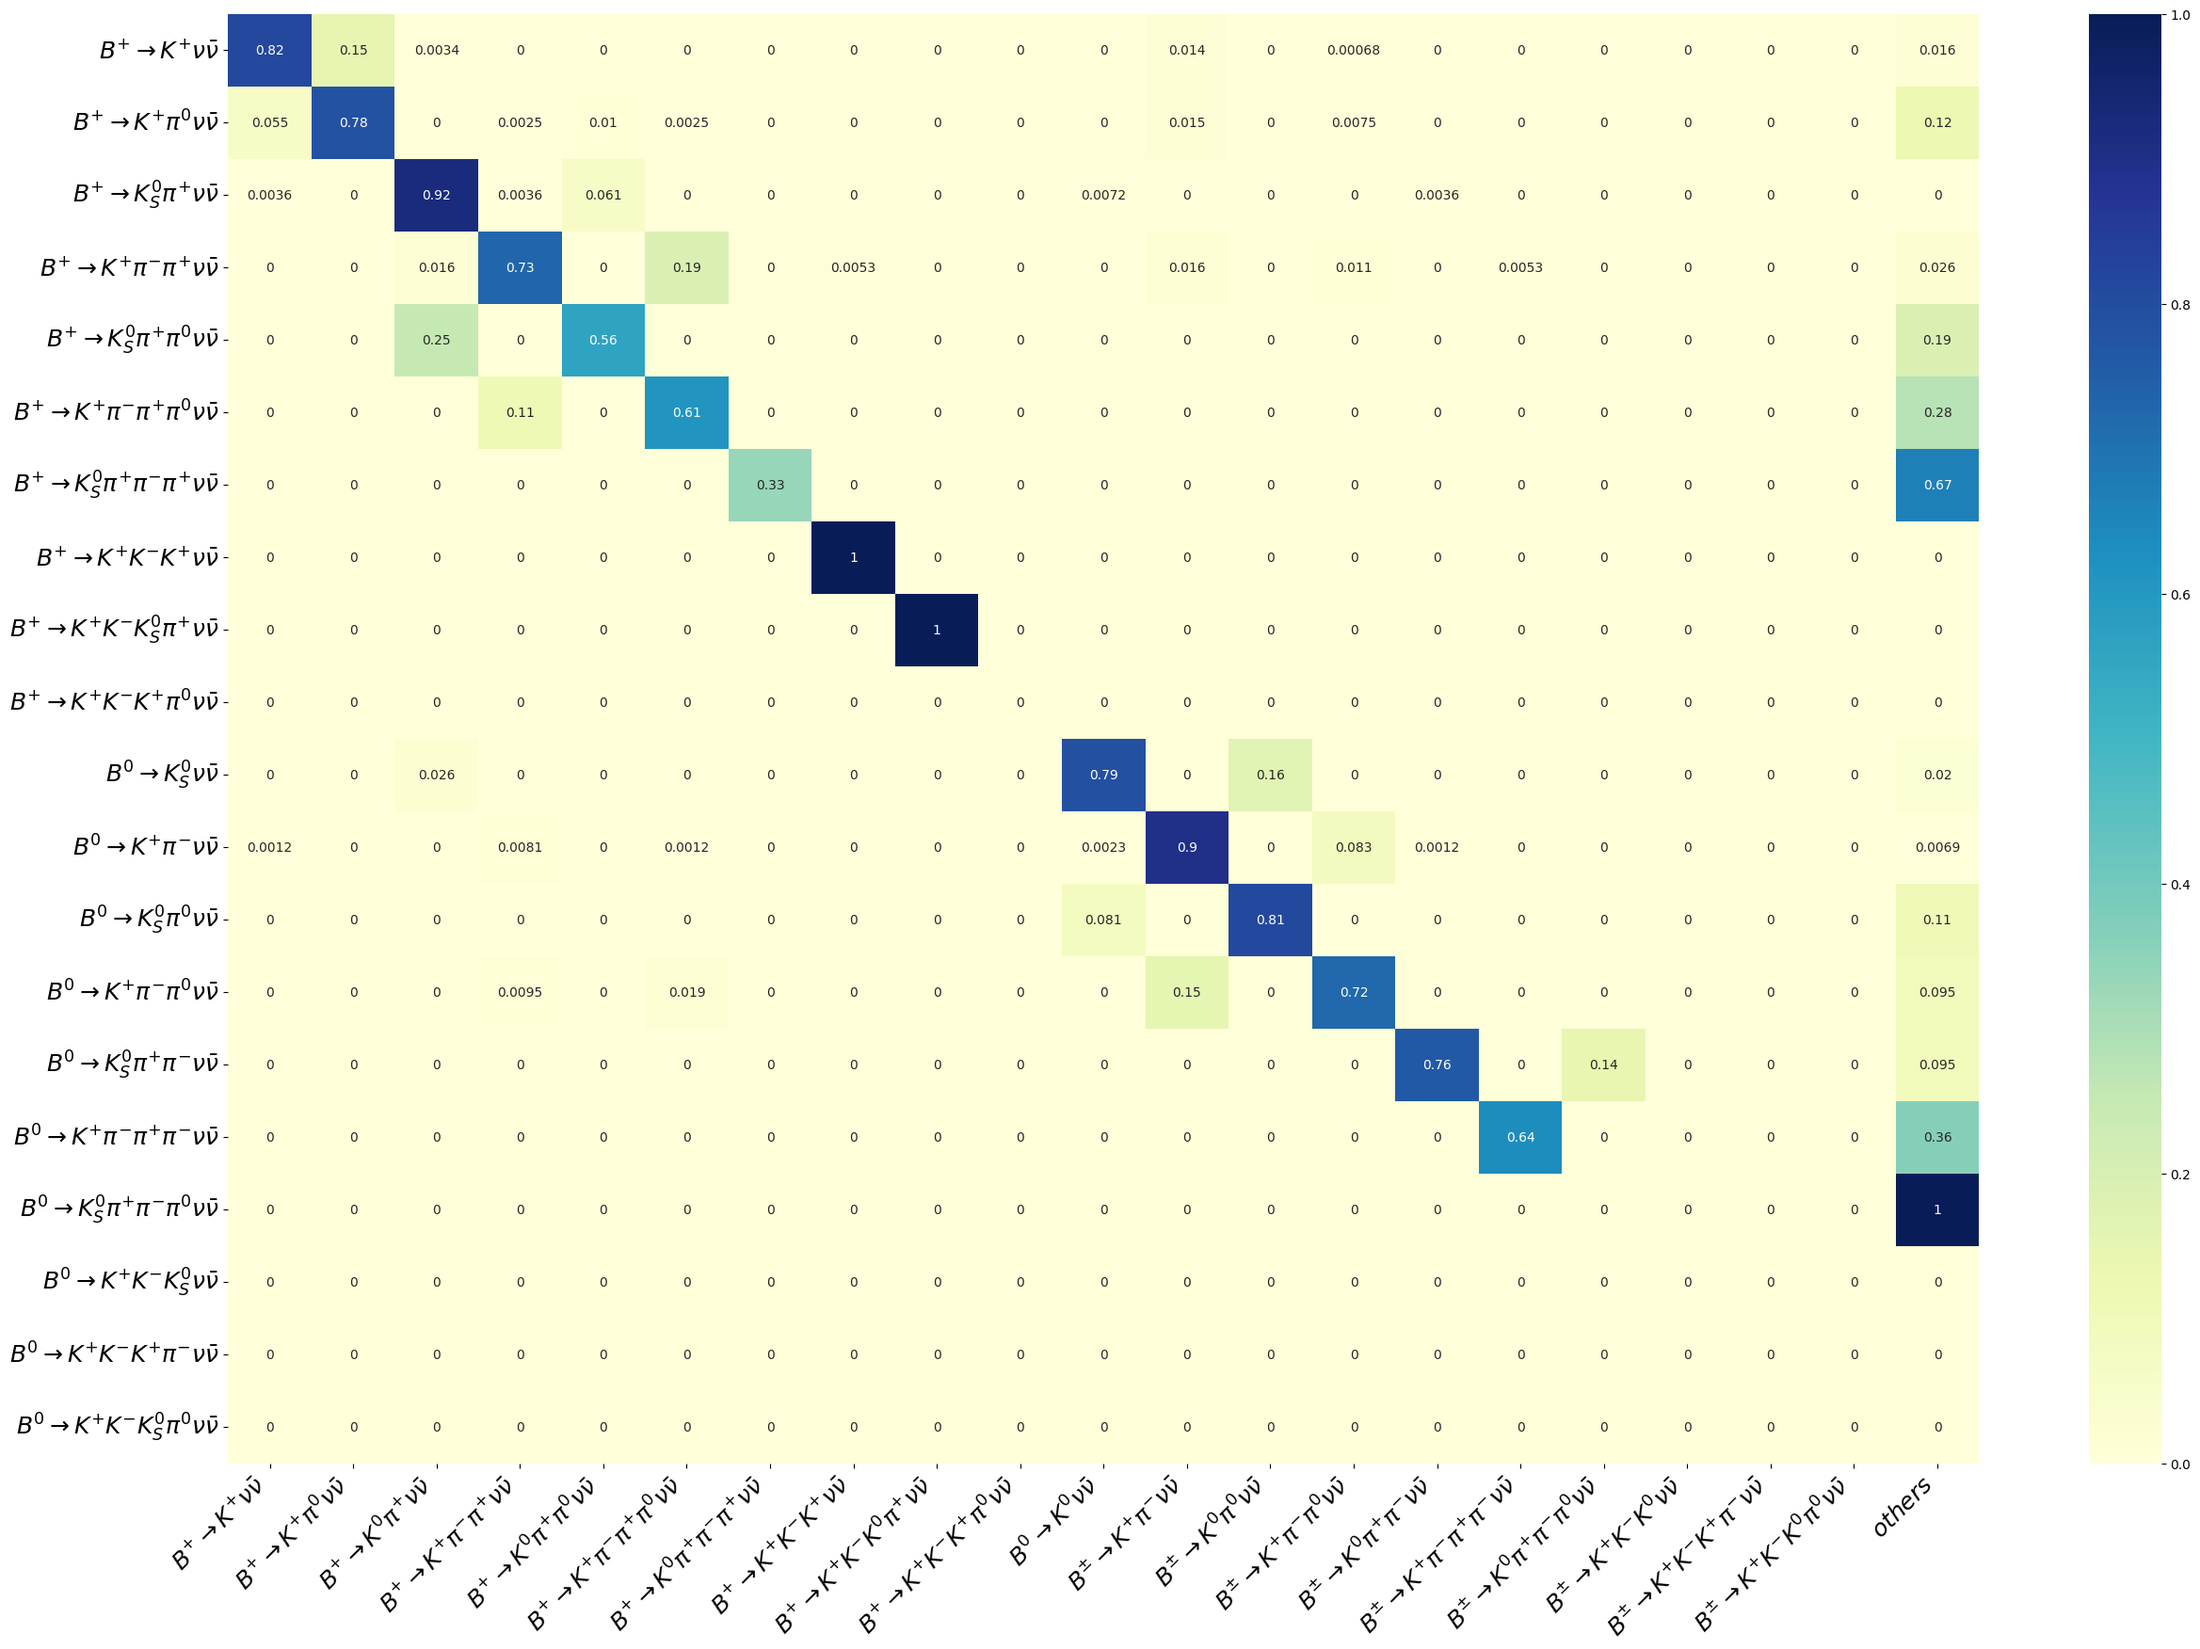
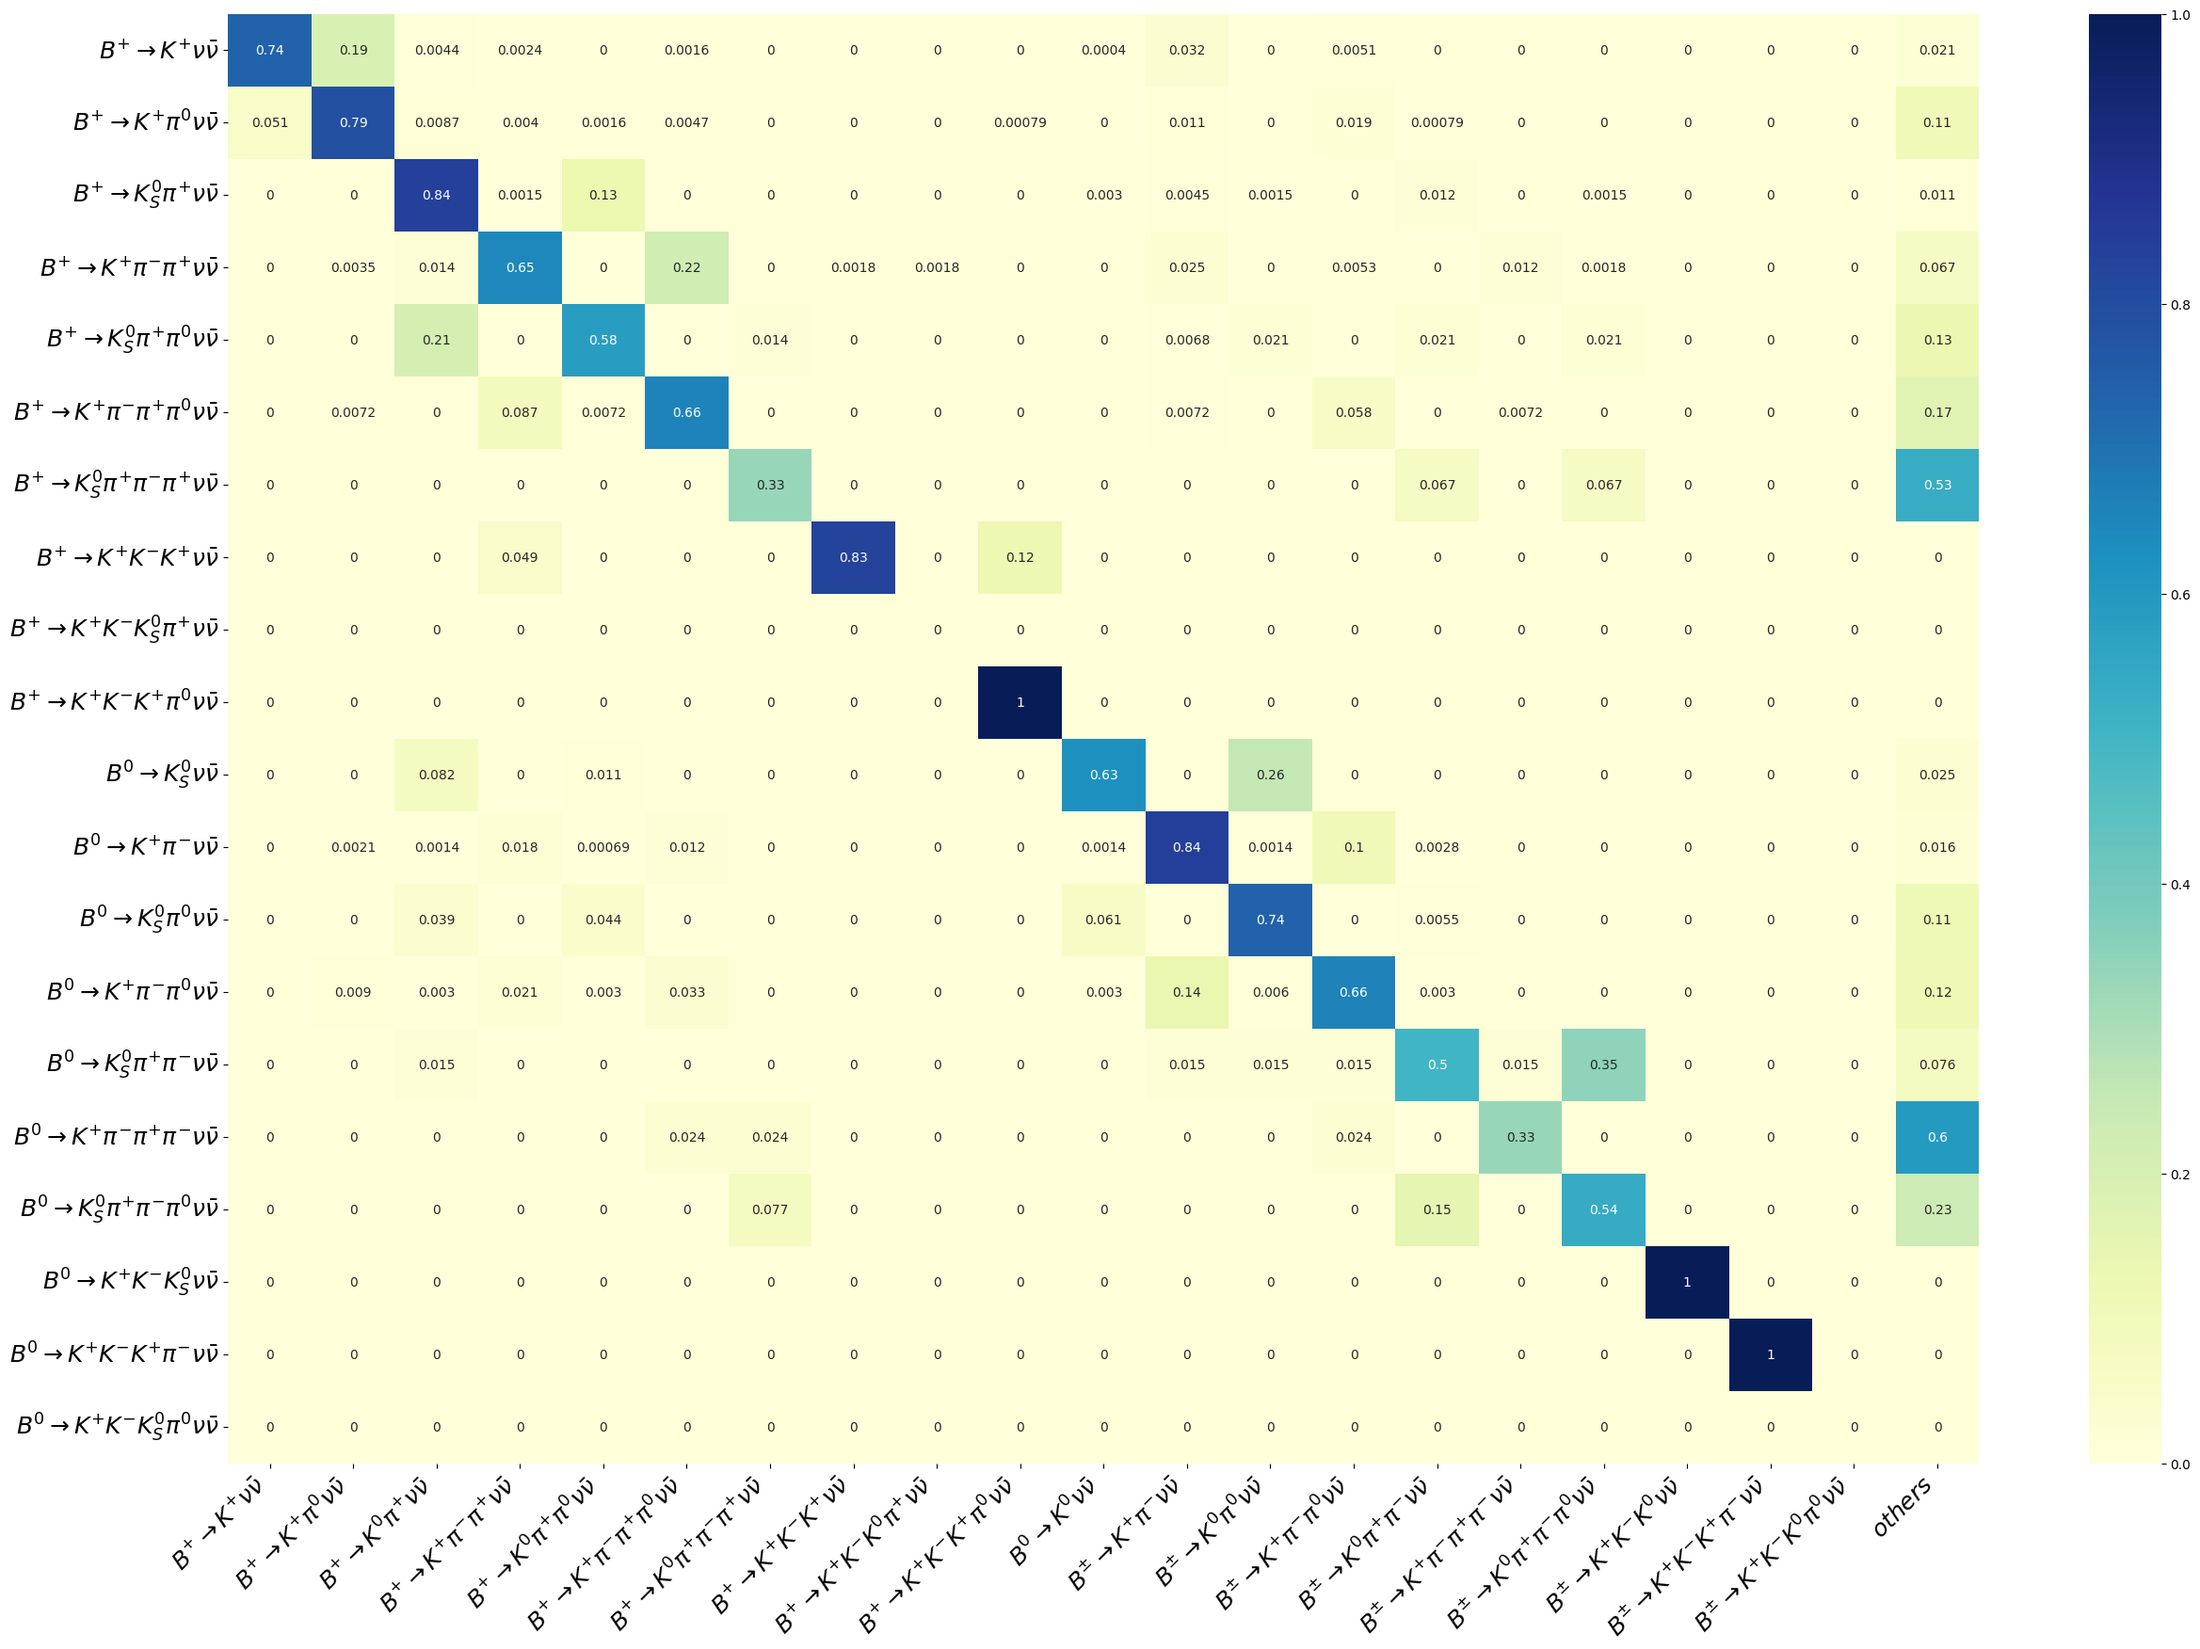
optimization

diff --git a/ReadRootFiles_r_sp.c b/ReadRootFiles_r_sp.c
@@ -868,7 +868,7 @@ void Loader::Cut(Loader::Variable variable, int i, Loader::Inequality inq, doubl
             exit(1);
         }
     }
-    TotalData = temp_queue;
+    TotalData.swap(temp_queue);
 }
 
 void Loader::Cut(Loader::Variable variable, int i, Loader::Inequality inq, double value, Loader::Qualifier qualifier, Loader::DecayMode decaymode) {
@@ -911,7 +911,7 @@ void Loader::Cut(Loader::Variable variable, int i, Loader::Inequality inq, doubl
             exit(1);
         }
     }
-    TotalData = temp_queue;
+    TotalData.swap(temp_queue);
 }
 
 void Loader::PrintDebugLogIf(Loader::Variable variable, int i, Loader::Inequality inq, double value) {
